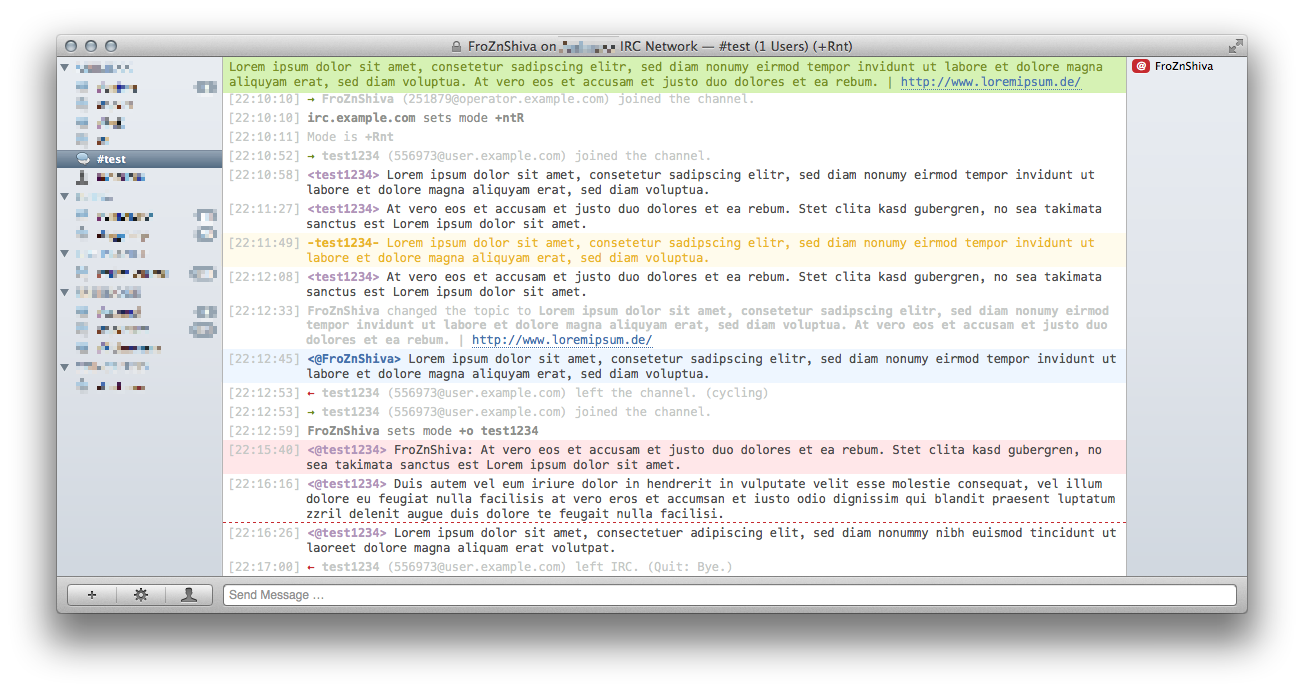
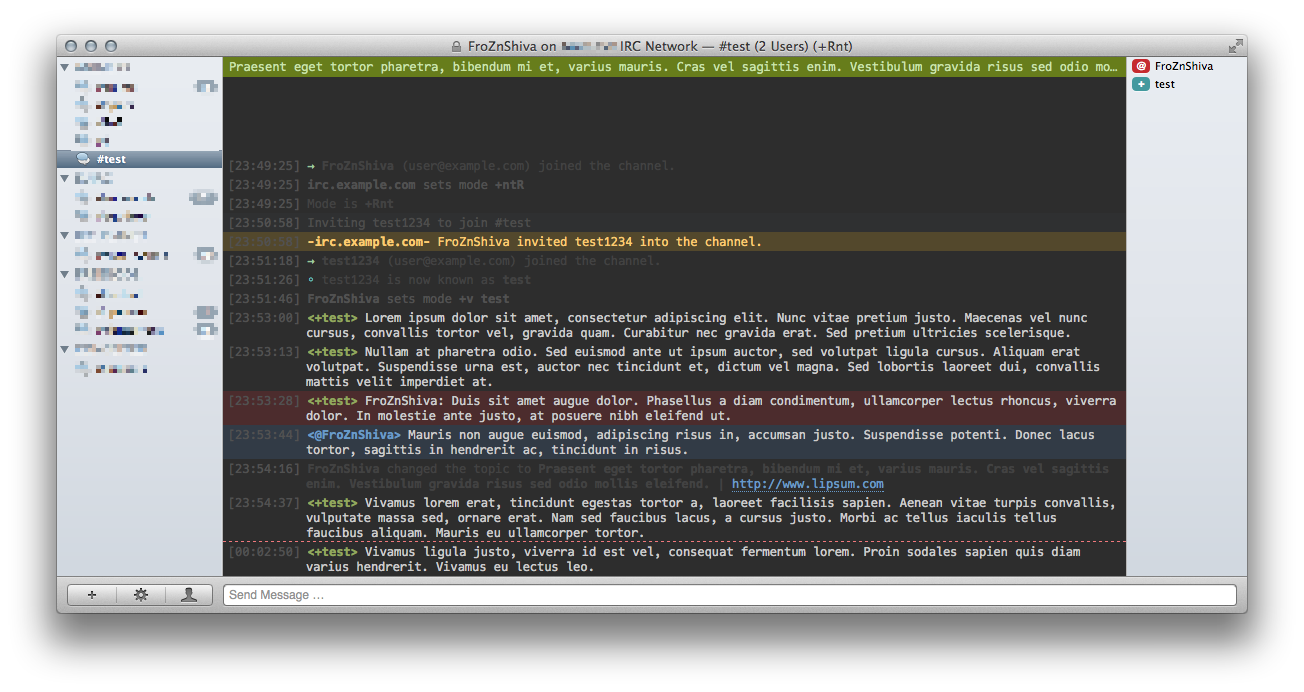
Add preview

diff --git a/README.md b/README.md
@@ -13,9 +13,7 @@ The main intention of this style is to emphasise important / interesting lines a
 4. Highlights are red
 5. Kicks, Kills, and mode changes are better visible than Joins, Quits, Parts, and other information fe. channel information displayed when joining
 
-<!---
 ![Preview](https://github.com/FroZnShiva/Textual-Style-Tomorrow_Night_Eighties/raw/master/preview.png)
---->
 
 ## Installation
 
